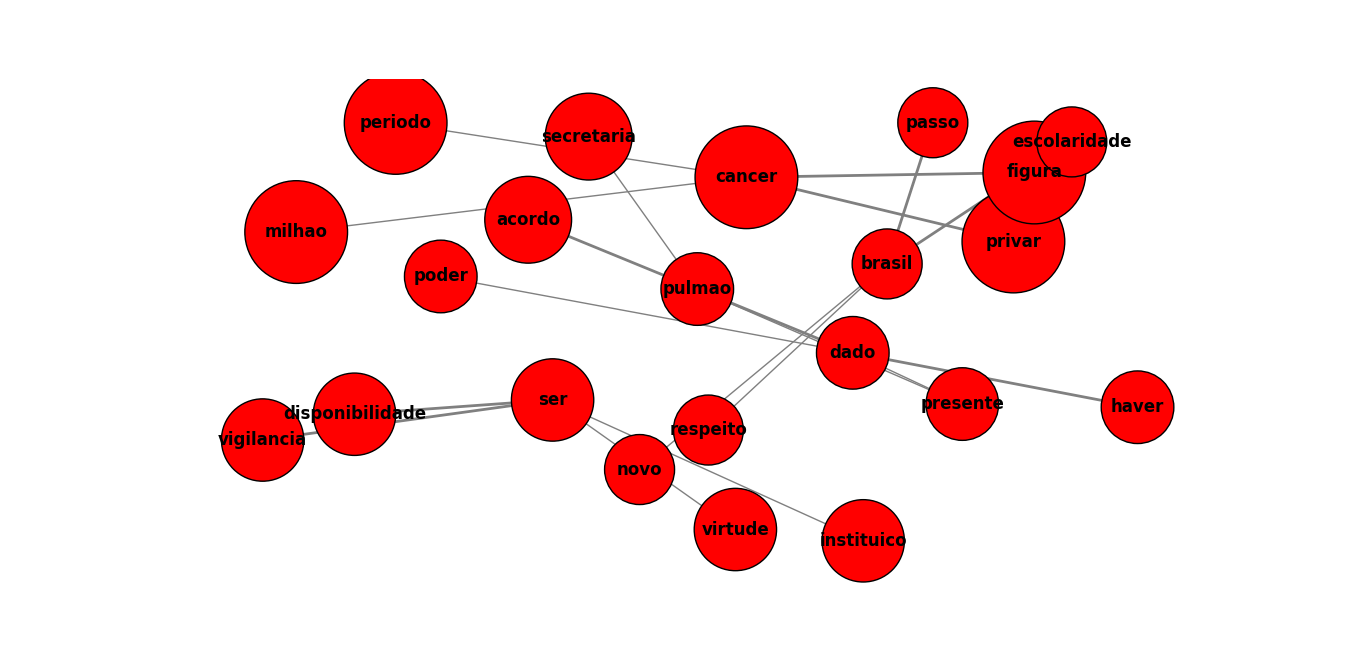
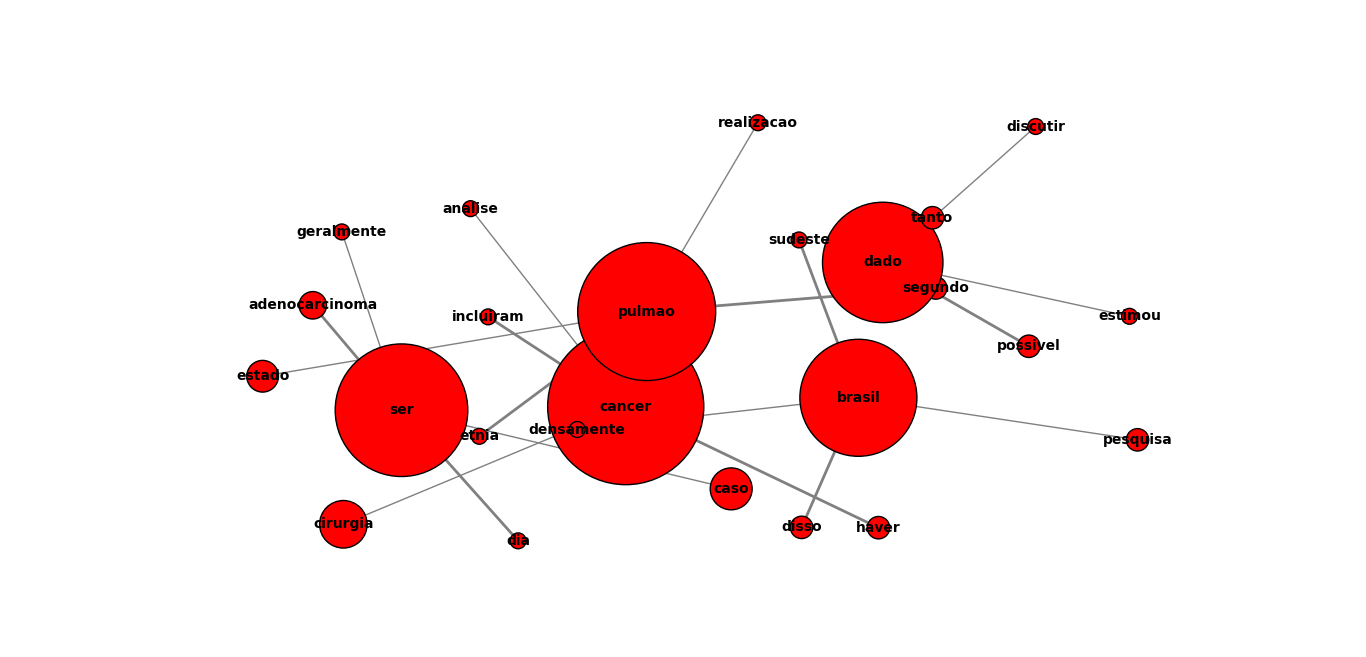
Fix some more erros on graph generation

diff --git a/graphs/word_graph.py b/graphs/word_graph.py
@@ -1,5 +1,10 @@
 import networkx as nx
 from matplotlib import pyplot as plt
+from dataloader.makedata import Dataloader
+
+from auto_diagnostic.tfidf import TFIDF
+from auto_diagnostic.lemmatization import Lemmatization
+from auto_diagnostic.preprocess import tokenize
 
 
 def graph(closest: list):
@@ -12,7 +17,7 @@ def graph(closest: list):
         node_key = node['key']
         close_nodes = node['neighbors']
 
-        G.add_node(node_key[1])
+        G.add_node(node_key[1], size=node_key[2])
 
         for n in close_nodes:
             G.add_node(n[1], size=n[2])
@@ -31,9 +36,9 @@ def graph(closest: list):
         G,
         pos,
         with_labels=True,
-        font_size=12,
+        font_size=10,
         font_weight='bold',
-        node_size=[n * 1.5 * 10 ** 5 for n in node_sizes.values()],
+        node_size=[n * 10 ** 5 for n in node_sizes.values()],
         width=list(edge_weights.values()),
         node_color='red',
         edge_color='grey',
@@ -42,3 +47,16 @@ def graph(closest: list):
     ax = plt.gca() # to get the current axis
     ax.collections[0].set_edgecolor("#000") 
     plt.show()
+
+
+if __name__ == '__main__':
+    dataloader = Dataloader()
+    df = dataloader.make_csv()
+    tfidf = TFIDF()
+    tokenized = tokenize(df['text_column'])
+    model = Lemmatization()
+    lemmatized_list = model.lemmatize(tokenized)
+    _ = tfidf.get_wordset_from_text(lemmatized_list)
+    tfidf_vectors = tfidf.tf_idf()
+    closest = tfidf.get_closest_neighbors(vectors=tfidf_vectors)
+    graph(closest)

diff --git a/auto_diagnostic/tfidf.py b/auto_diagnostic/tfidf.py
@@ -91,11 +91,11 @@ class TFIDF():
         key_neighbors_list = []
         for tup in self.select_n_largests(vectors=vectors, n=n):
             neighbors_list = [
-                (*t[:2], self.tf(tup[1]))
+                (*t[:2], self.tf(t[1]))
                 for t in tuple_iwt if abs(t[0] - tup[0]) <= 2
             ]
             key_neighbors_list.append(
-                {'key': tup, 'neighbors': [t for t in neighbors_list if t != tup]}
+                {'key': tup, 'neighbors': [t for t in neighbors_list if t[:2] != tup[:2]]}
             )
         return key_neighbors_list
 
